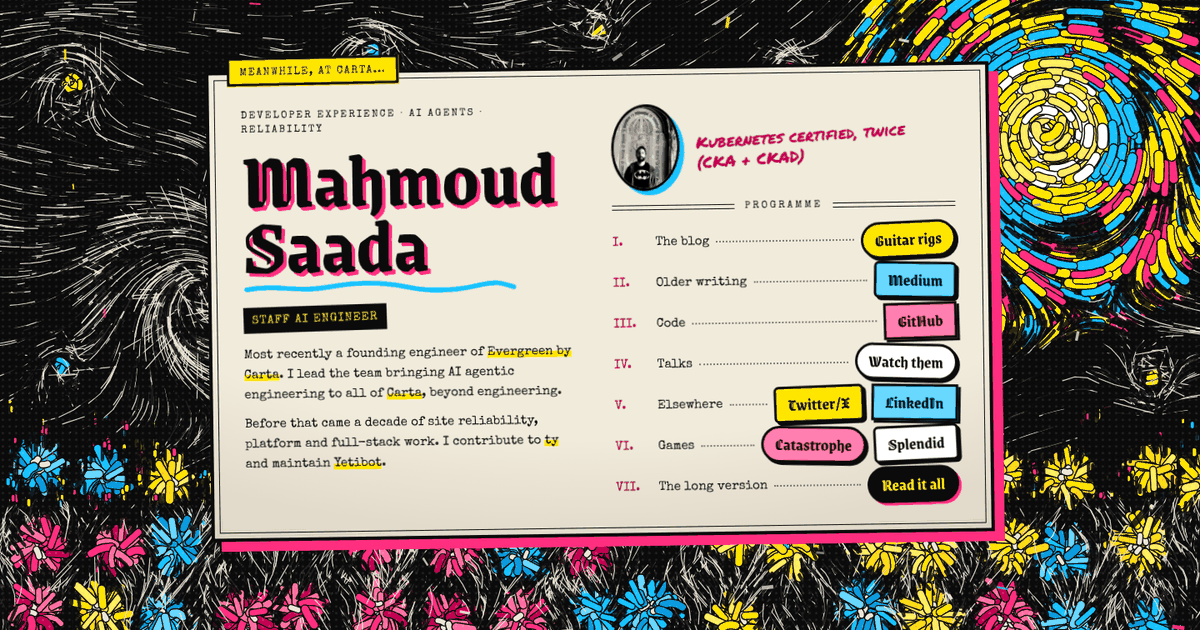
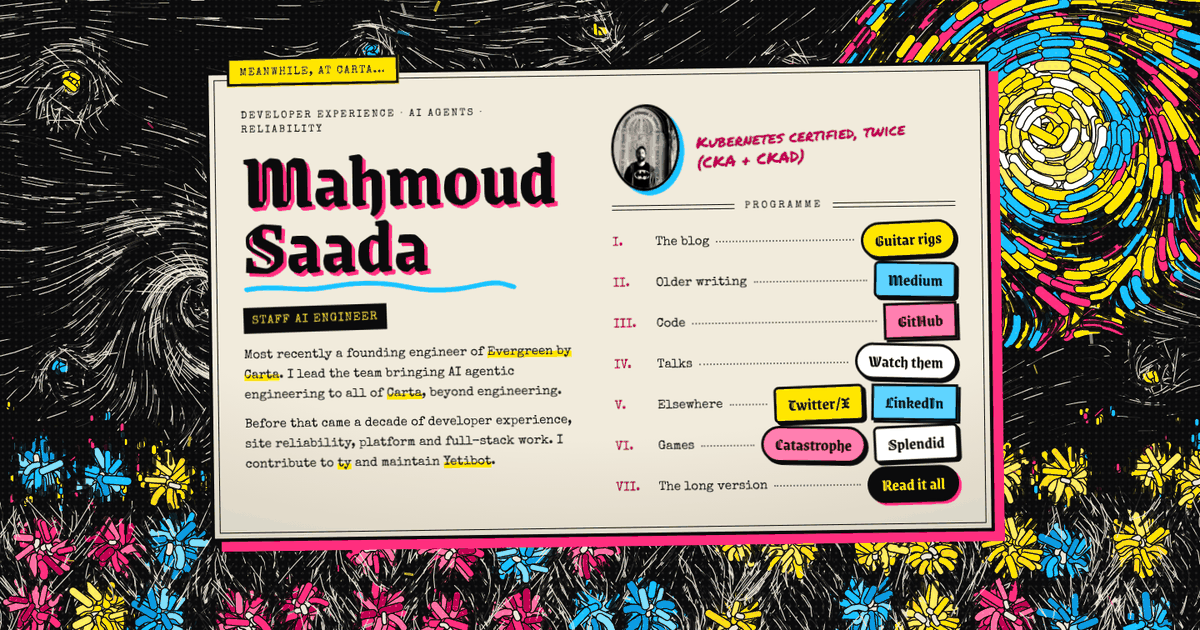
Mention developer experience work in the hero
The second paragraph now reads "a decade of developer experience, site
reliability, platform and full-stack work". The link card is re-rendered
so its text matches.

Claude-Session: https://claude.ai/code/session_01KSSpX2C3bFgcym5dK9WQc6

Changed region(s): [[0.0, 0.0, 1.0, 1.0], [0.2158, 0.0, 1.0, 0.6937]]

diff --git a/components/Home.tsx b/components/Home.tsx
@@ -304,8 +304,8 @@ const Hero = () => {
                 , beyond engineering.
               </p>
               <p className="lede">
-                Before that came a decade of site reliability, platform and full-stack work. I
-                contribute to{" "}
+                Before that came a decade of developer experience, site reliability, platform
+                and full-stack work. I contribute to{" "}
                 <a className="hl" href="https://github.com/astral-sh/ty">
                   ty
                 </a>{" "}
